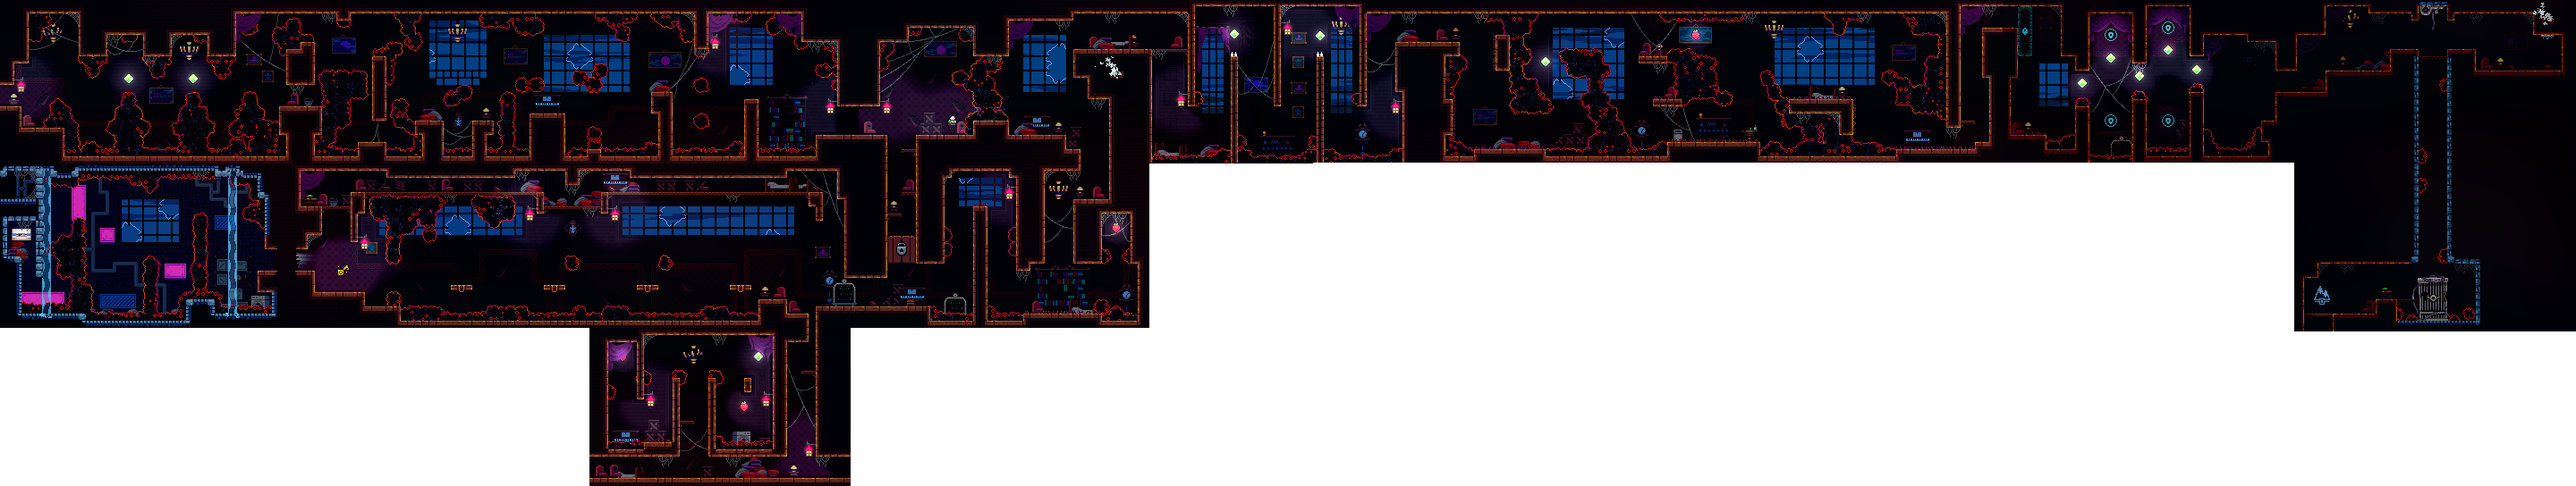
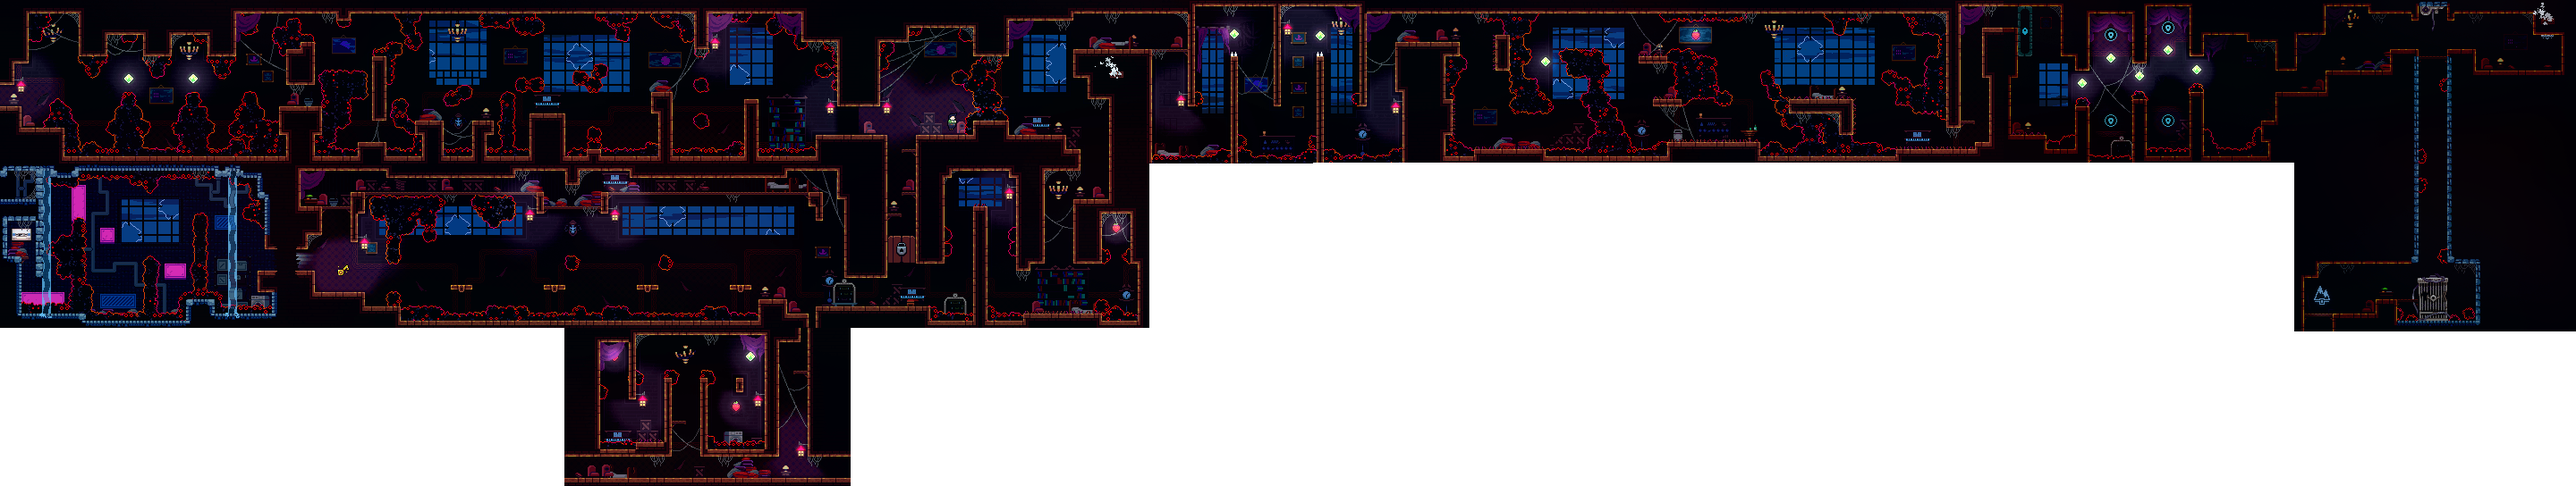
note no autotabbing for void

Changed region(s): [[0.2188, 0.6562, 0.3438, 1.0]]

diff --git a/README.md b/README.md
@@ -49,8 +49,10 @@ A PopTracker pack for [the Celeste (Open World) Archipelago Randomizer](https://
 ## Notes
 
 - For Keys, Gems, and Checkpoints, it's not strictly necessary to have tracking without their -sanity variants enabled; however as they still serve a purpose and are always present as check locations (that just reward their own item), there is no harm in always showing them.
-- Room adjustments:
-	- Strictly speaking void is a room in 5A-2, however it fits more neatly into the map graphics in 5A-3, so that is where it's handled here
+- Room notes:
+	- void (the room between 5A Depths and Unravelling):
+	    - Strictly speaking void is a room in 5A-2, however it fits more neatly into the map graphics in 5A-3, so that is where it's handled here
+	    - void does not trigger auto-tabbing as there is no notification for it from AP
 	- 9A-8 (Reconciliation) is so wide that it had to be sliced; rows are traversed left to right, top to bottom
 	- end-golden is so far away in 9A-9 that it had to be adjusted to appear much closer than it actually is for the map to be useful
 - Pack size/map scale/load times:
